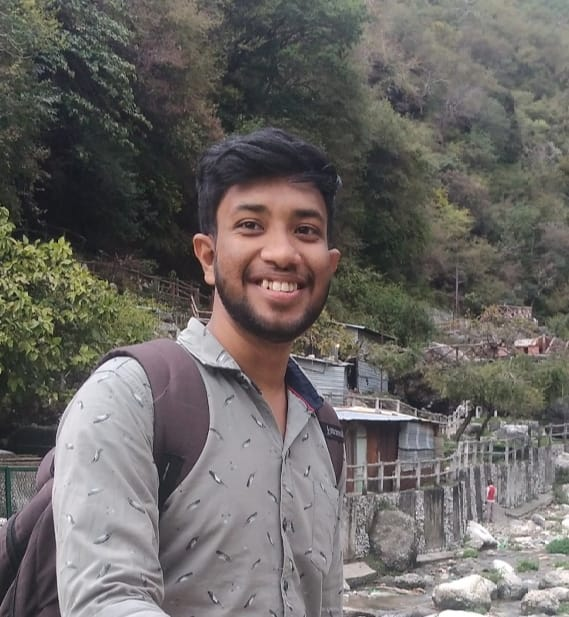
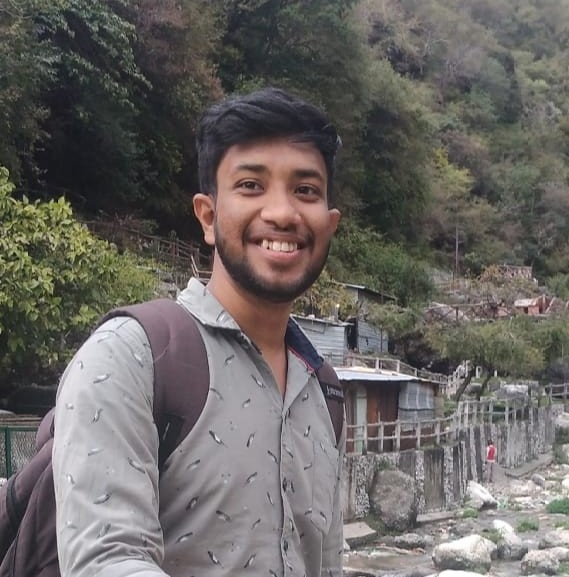
Fixed CSS & Added Suchi

diff --git a/src/Components/Navbar.jsx b/src/Components/Navbar.jsx
@@ -60,7 +60,7 @@ export default function Navbar() {
             id="navbarNav"
           >
             <ul className="navbar-nav">
-              <li className="nav-item">
+              <li className="nav-item my-2 mx-2">
                 <div className="dropdown">
                   <button
                     class="btn btn-primary shadow dropdown-toggle"

diff --git a/src/Components/AboutUs.jsx b/src/Components/AboutUs.jsx
@@ -100,7 +100,7 @@ export default function AboutUs() {
           <div className="col">
             <div className="card cardAbout" style={{ width: "25rem" }}>
               <img
-                src="Srikant_Sir.jpg"
+                src="SuchiLaad.jpeg"
                 className="card-img-top myyimg"
                 alt="..."
               />
